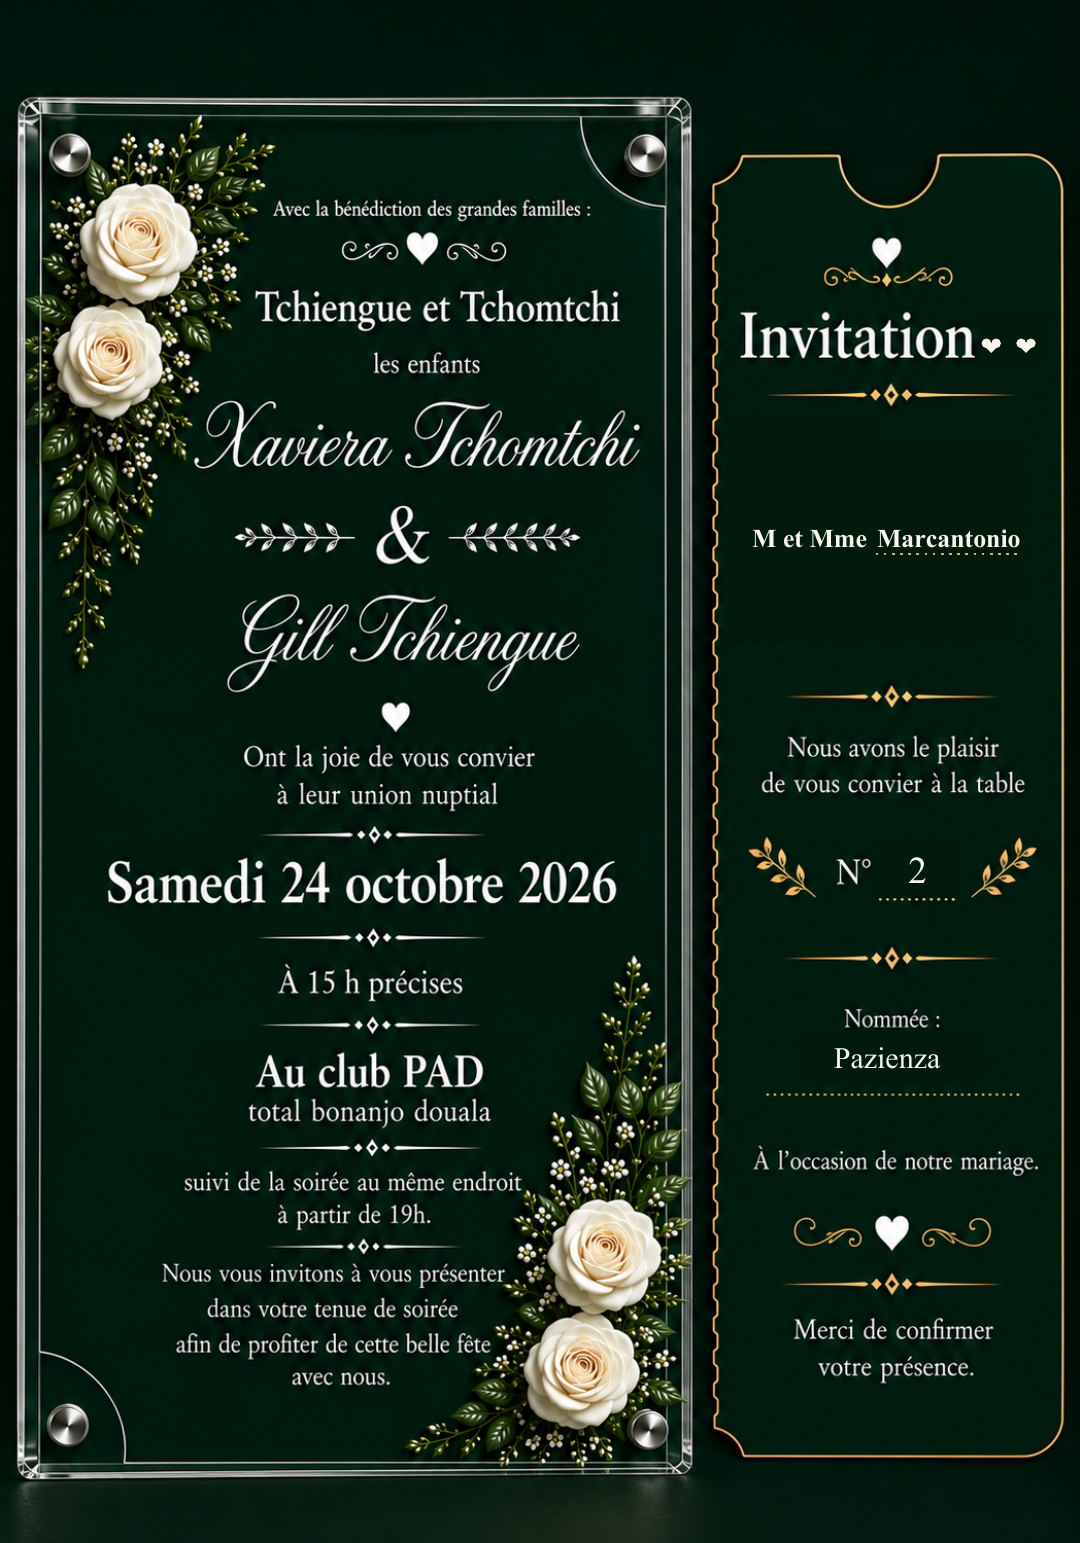
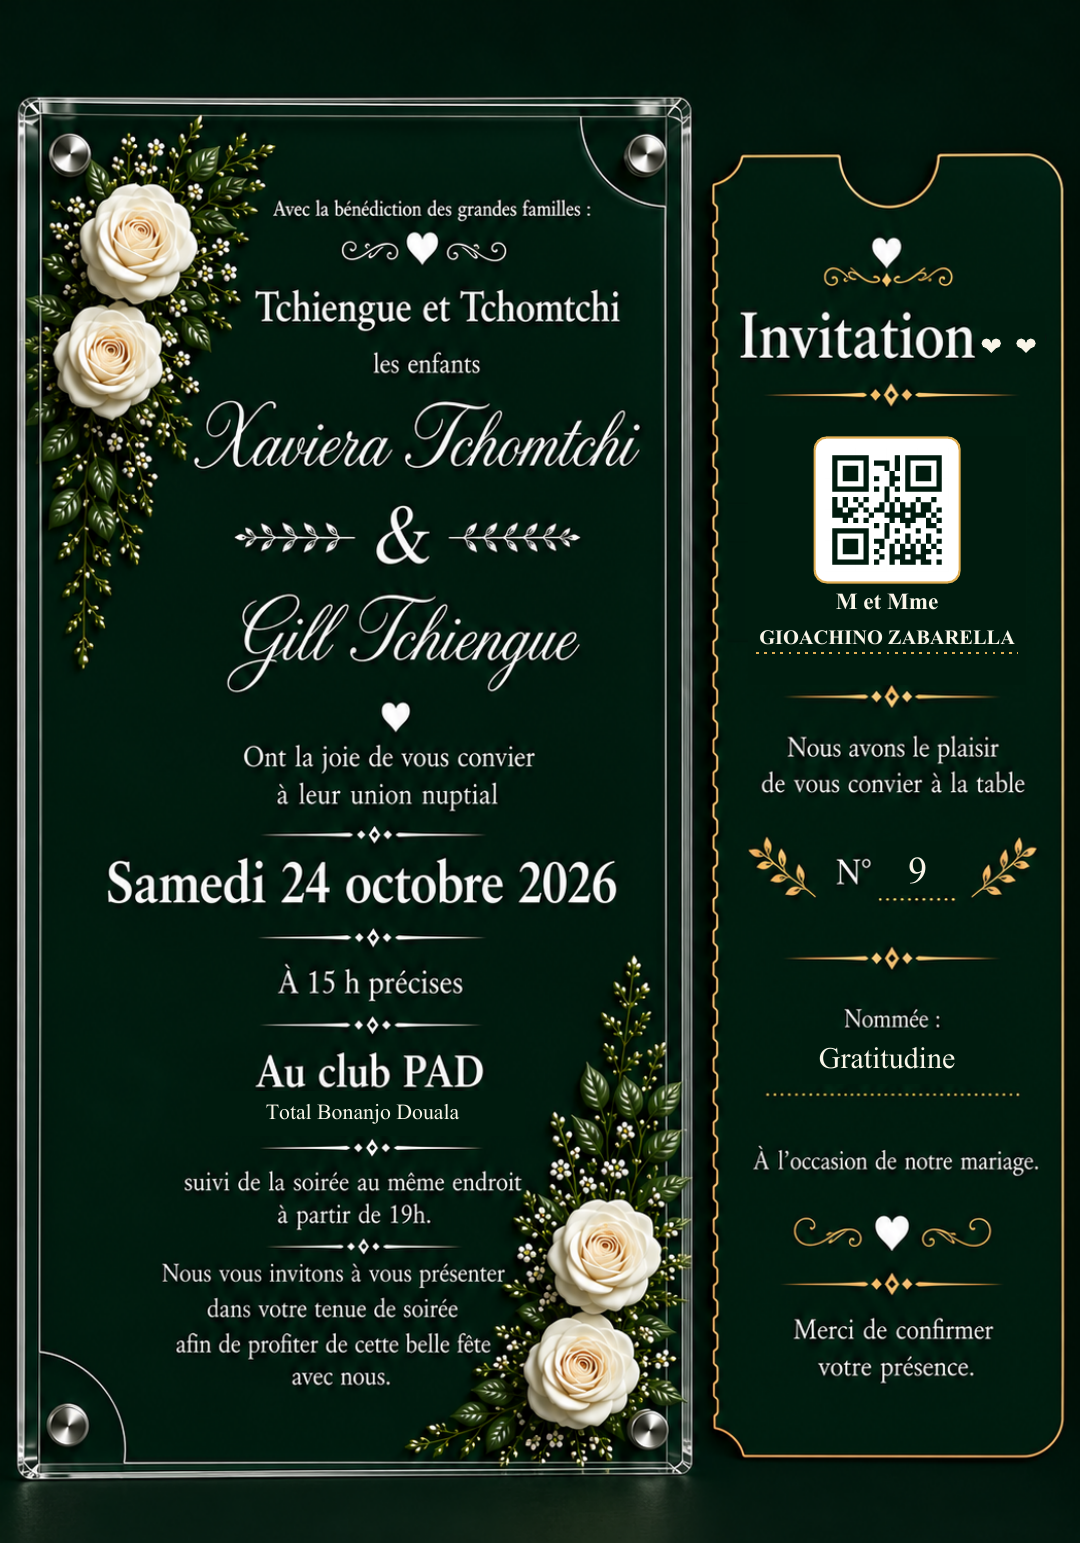
refactoring design linea dorata tratteggio dorato sotto il cognome

diff --git a/src/main/java/com/wedding/checkin/service/VerticalInviteGeneratorService.java b/src/main/java/com/wedding/checkin/service/VerticalInviteGeneratorService.java
@@ -1,5 +1,11 @@
 package com.wedding.checkin.service;
 
+import com.google.zxing.BarcodeFormat;
+import com.google.zxing.EncodeHintType;
+import com.google.zxing.client.j2se.MatrixToImageConfig;
+import com.google.zxing.client.j2se.MatrixToImageWriter;
+import com.google.zxing.qrcode.QRCodeWriter;
+import com.google.zxing.qrcode.decoder.ErrorCorrectionLevel;
 import com.wedding.checkin.model.Guest;
 import org.apache.pdfbox.pdmodel.PDDocument;
 import org.apache.pdfbox.pdmodel.PDPage;
@@ -124,7 +130,7 @@ public class VerticalInviteGeneratorService {
                 }
                 PDImageXObject master = LosslessFactory.createFromImage(document, masterImage);
                 c.drawImage(master, 0, 0, PAGE_W, PAGE_H);
-                drawDynamicMasterFields(c, guest);
+                drawDynamicMasterFields(document, c, guest);
             }
             document.save(output);
             return output.toByteArray();
@@ -133,14 +139,31 @@ public class VerticalInviteGeneratorService {
         }
     }
 
-    private void drawDynamicMasterFields(PDPageContentStream c, Guest guest) throws IOException {
+    private void drawDynamicMasterFields(PDDocument document, PDPageContentStream c, Guest guest)
+            throws IOException {
         // Le aree sono campionate dal verde uniforme del master. Tutto il
         // resto dell'immagine rimane esattamente quello fornito dall'utente.
-        cover(c, 97 * MM, 121.5f * MM, 36 * MM, 22 * MM); // titolo + nome
-        cover(c, 98.5f * MM, 116.5f * MM, 33 * MM, 4.5f * MM); // vecchio tratteggio del master
+        cover(c, 97 * MM, 111.2f * MM, 36 * MM, 32.3f * MM); // QR, titolo, nome e tratteggio
         cover(c, 127.2f * MM, 152.5f * MM, 8.3f * MM, 7 * MM); // cuori, senza toccare la n
         cover(c, 113.5f * MM, 84 * MM, 11 * MM, 7 * MM); // numero tavolo
         cover(c, 104 * MM, 59.5f * MM, 24 * MM, 7 * MM); // nome tavolo
+        cover(c, 26 * MM, 52.8f * MM, 42 * MM, 5.8f * MM); // vecchia dicitura, senza toccare la riga sopra
+
+        centered(c, "Total Bonanjo Douala", PDType1Font.TIMES_ROMAN,
+                8, 47 * MM, 54.9f * MM, CREAM);
+
+        float qrSize = 16 * MM;
+        float qrPad = 1.4f * MM;
+        float qrBoxSize = qrSize + 2 * qrPad;
+        float qrBoxX = 115 * MM - qrBoxSize / 2;
+        float qrBoxY = 124.5f * MM;
+        fill(c, Color.WHITE);
+        stroke(c, GOLD);
+        c.setLineWidth(.8f);
+        roundedRect(c, qrBoxX, qrBoxY, qrBoxSize, qrBoxSize,
+                1.6f * MM, true, true);
+        PDImageXObject qr = LosslessFactory.createFromImage(document, qrImage(guest.getId()));
+        c.drawImage(qr, qrBoxX + qrPad, qrBoxY + qrPad, qrSize, qrSize);
 
         float ticketCx = 115 * MM;
         boolean couple = isCouple(guest.getNome());
@@ -148,7 +171,7 @@ public class VerticalInviteGeneratorService {
         boolean inlineGuest = sharedSurnameLabel != null || !couple;
         if (!inlineGuest) {
             centered(c, invitationTitle(guest.getNome()), PDType1Font.TIMES_BOLD,
-                    9, ticketCx, 139.2f * MM, CREAM);
+                    8, ticketCx, 121.2f * MM, CREAM);
         }
 
         String[] nameLines = inlineGuest
@@ -172,25 +195,36 @@ public class VerticalInviteGeneratorService {
             float titleWidth = PDType1Font.TIMES_BOLD.getStringWidth(title) / 1000 * titleSize;
             float lineStart = titleX + titleWidth + 1.2f * MM;
             float nameWidth = lineEnd - lineStart;
-            text(c, title, PDType1Font.TIMES_BOLD, titleSize,
-                    titleX, 129 * MM, CREAM);
-            dotted(c, lineStart, lineEnd, 128.2f * MM);
-            centeredFit(c, guestName.toUpperCase(Locale.ROOT), PDType1Font.TIMES_BOLD,
-                    12.5f, 8.5f, nameWidth,
-                    lineStart + nameWidth / 2, 129 * MM, CREAM);
+            String upperGuestName = guestName.toUpperCase(Locale.ROOT);
+            boolean requiresTwoLines = PDType1Font.TIMES_BOLD.getStringWidth(upperGuestName)
+                    / 1000 * 8.5f > nameWidth;
+            if (requiresTwoLines) {
+                centered(c, title, PDType1Font.TIMES_BOLD,
+                        Math.min(titleSize, 8.5f), ticketCx, 121 * MM, CREAM);
+                centeredFit(c, upperGuestName, PDType1Font.TIMES_BOLD,
+                        11.5f, 7, 34 * MM, ticketCx, 116.4f * MM, CREAM);
+                dotted(c, 98 * MM, 132 * MM, 115.4f * MM);
+            } else {
+                text(c, title, PDType1Font.TIMES_BOLD, titleSize,
+                        titleX, 116.7f * MM, CREAM);
+                dotted(c, lineStart, lineEnd, 115.9f * MM);
+                centeredFit(c, upperGuestName, PDType1Font.TIMES_BOLD,
+                        12.5f, 8.5f, nameWidth,
+                        lineStart + nameWidth / 2, 116.7f * MM, CREAM);
+            }
         } else if (nameLines.length == 1) {
             centeredFit(c, nameLines[0].toUpperCase(Locale.ROOT), PDType1Font.TIMES_BOLD,
                     13, 6.5f, 28 * MM, ticketCx,
-                    129 * MM, CREAM);
+                    116.5f * MM, CREAM);
         } else {
             centeredFit(c, nameLines[0].toUpperCase(Locale.ROOT), PDType1Font.TIMES_BOLD,
-                    13, 7, 27 * MM, ticketCx, 132 * MM, CREAM);
+                    10.5f, 7, 27 * MM, ticketCx, 117.5f * MM, CREAM);
             centeredFit(c, nameLines[1].toUpperCase(Locale.ROOT), PDType1Font.TIMES_BOLD,
-                    13, 7, 27 * MM, ticketCx, 125.5f * MM, CREAM);
+                    10.5f, 7, 27 * MM, ticketCx, 113.5f * MM, CREAM);
         }
 
         if (!inlineGuest) {
-            float guestUnderlineY = nameLines.length == 1 ? 125.2f * MM : 121.5f * MM;
+            float guestUnderlineY = nameLines.length == 1 ? 113.8f * MM : 111.7f * MM;
             dotted(c, 101 * MM, 129 * MM, guestUnderlineY);
         }
 
@@ -212,6 +246,18 @@ public class VerticalInviteGeneratorService {
         fill(c, MASTER_GREEN);
         c.addRect(x, y, w, h);
         c.fill();
+    }
+
+    private BufferedImage qrImage(String payload) {
+        try {
+            var matrix = new QRCodeWriter().encode(payload, BarcodeFormat.QR_CODE, 500, 500,
+                    Map.of(EncodeHintType.ERROR_CORRECTION, ErrorCorrectionLevel.M,
+                            EncodeHintType.MARGIN, 1));
+            return MatrixToImageWriter.toBufferedImage(matrix,
+                    new MatrixToImageConfig(MASTER_GREEN.getRGB(), Color.WHITE.getRGB()));
+        } catch (Exception e) {
+            throw new IllegalArgumentException("Impossibile creare il QR per l'id " + payload, e);
+        }
     }
 
     private String[] splitGuestName(String name) {

diff --git a/src/test/java/com/wedding/checkin/VerticalInviteGeneratorServiceTest.java b/src/test/java/com/wedding/checkin/VerticalInviteGeneratorServiceTest.java
@@ -1,11 +1,20 @@
 package com.wedding.checkin;
 
+import com.google.zxing.BinaryBitmap;
+import com.google.zxing.MultiFormatReader;
+import com.google.zxing.client.j2se.BufferedImageLuminanceSource;
+import com.google.zxing.common.HybridBinarizer;
 import com.wedding.checkin.model.Guest;
 import com.wedding.checkin.service.VerticalInviteGeneratorService;
 import org.apache.pdfbox.pdmodel.PDDocument;
+import org.apache.pdfbox.rendering.ImageType;
+import org.apache.pdfbox.rendering.PDFRenderer;
 import org.apache.pdfbox.text.PDFTextStripper;
 import org.junit.jupiter.api.Test;
 
+import java.awt.image.BufferedImage;
+
+import static org.junit.jupiter.api.Assertions.assertEquals;
 import static org.junit.jupiter.api.Assertions.assertTrue;
 
 class VerticalInviteGeneratorServiceTest {
@@ -50,6 +59,21 @@ class VerticalInviteGeneratorServiceTest {
             String text = new PDFTextStripper().getText(document);
             assertTrue(text.contains("Mme"));
             assertTrue(text.contains("ANNA BIANCHI"));
+            assertTrue(text.contains("Total Bonanjo Douala"));
+        }
+    }
+
+    @Test
+    void qrVerticaleContieneSoloIdInvitato() throws Exception {
+        Guest guest = new Guest("0099", "M. Mario Rossi", "2", "Pazienza");
+        byte[] pdf = generator.generate(guest);
+
+        try (PDDocument document = PDDocument.load(pdf)) {
+            BufferedImage page = new PDFRenderer(document)
+                    .renderImageWithDPI(0, 250, ImageType.RGB);
+            var bitmap = new BinaryBitmap(new HybridBinarizer(
+                    new BufferedImageLuminanceSource(page)));
+            assertEquals("0099", new MultiFormatReader().decode(bitmap).getText());
         }
     }
 }

diff --git a/src/main/java/com/wedding/checkin/controller/InviteController.java b/src/main/java/com/wedding/checkin/controller/InviteController.java
@@ -22,7 +22,9 @@ import java.io.ByteArrayOutputStream;
 import java.io.IOException;
 import java.nio.charset.StandardCharsets;
 import java.text.Normalizer;
+import java.util.HashMap;
 import java.util.List;
+import java.util.Map;
 import java.util.zip.ZipEntry;
 import java.util.zip.ZipOutputStream;
 
@@ -63,8 +65,14 @@ public class InviteController {
         List<Guest> guests = repo.findAll();
         try (ByteArrayOutputStream bytes = new ByteArrayOutputStream();
              ZipOutputStream zip = new ZipOutputStream(bytes, StandardCharsets.UTF_8)) {
+            Map<String, Integer> occurrences = new HashMap<>();
             for (Guest guest : guests) {
-                zip.putNextEntry(new ZipEntry(filename(guest)));
+                String baseFilename = filename(guest);
+                int occurrence = occurrences.merge(baseFilename, 1, Integer::sum);
+                String zipFilename = occurrence == 1
+                        ? baseFilename
+                        : baseFilename.replace(".pdf", "_" + occurrence + ".pdf");
+                zip.putNextEntry(new ZipEntry(zipFilename));
                 zip.write(generate(guest, template));
                 zip.closeEntry();
             }
@@ -109,6 +117,6 @@ public class InviteController {
                 .replaceAll("\\p{M}", "")
                 .replaceAll("[^a-z0-9]+", "_")
                 .replaceAll("^_+|_+$", "");
-        return "invito_" + guest.getId() + "_" + safeName + ".pdf";
+        return safeName + ".pdf";
     }
 }

diff --git a/src/test/java/com/wedding/checkin/InviteControllerTest.java b/src/test/java/com/wedding/checkin/InviteControllerTest.java
@@ -57,7 +57,7 @@ class InviteControllerTest {
                 .andExpect(status().isOk())
                 .andExpect(content().contentType(MediaType.APPLICATION_PDF))
                 .andExpect(header().string("Content-Disposition",
-                        containsString("invito_0001_mario_rossi.pdf")))
+                        containsString("mario_rossi.pdf")))
                 .andExpect(result -> {
                     byte[] body = result.getResponse().getContentAsByteArray();
                     assertTrue(body.length > 5_000);
@@ -113,8 +113,8 @@ class InviteControllerTest {
             }
         }
         assertEquals(Set.of(
-                "invito_0001_mario_rossi.pdf",
-                "invito_0002_anna_bianchi.pdf"), entries);
+                "mario_rossi.pdf",
+                "anna_bianchi.pdf"), entries);
     }
 
     @Test
